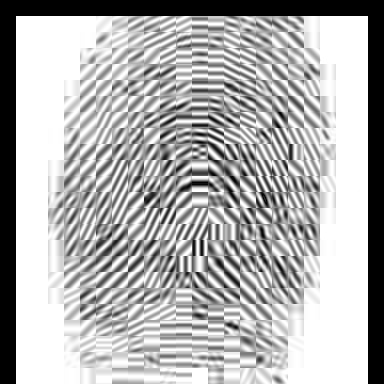
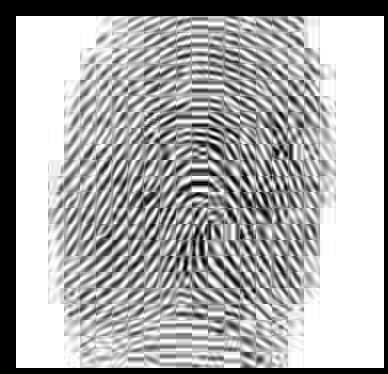
fixing fft unshift

diff --git a/proj10/proj10.py b/proj10/proj10.py
@@ -3,24 +3,29 @@ import numpy as np
 import cv2
 import math
 
+import matplotlib.pyplot as plt
+
 def even_slices(image, M=8):
     for i in range(1, image.shape[0] / M):
         for j in range(1, image.shape[1] / M):
             if i % 2 == 0 and j % 2 == 0:
-                sub_image = [line[(i-1)*M: (i+1)*M] for line in image[(j-1)*M: (j+1)*M]]
+                sub_image = np.array(image)[(i-1)*M: (i+1)*M, (j-1)*M: (j+1)*M]
                 if len(sub_image) > 0: yield (np.asarray(sub_image), i, j)
 
 def max_frequency(image,M=8):
-    max = (0,0,0)
-    for i in range(1, len(image)):
-        for j in range(1, len(image[i])):
-            if abs(image[i][j]) > max[2]:
-                if(i,j) != (M,M): max = (i-M, j-M, abs(image[i][j]))
-    return int(np.linalg.norm([max[0] - M, max[1] - M]))
+    centre=(M,M)
+    max = (0,0,0,0)
+    for i in range(1,len(image)):
+        for j in range(1,len(image[i])):
+            norm = abs(image[i][j])**2
+            if norm > max[2] and (i,j) != centre:
+                dist = math.sqrt((i-centre[0])**2 + (j-centre[1])**2)
+                max = (i-centre[0],j-centre[1],norm,dist)
+    return int(math.ceil(max[3]))
 
 def Npb(image):
     circle = np.ones(image.shape)
-    cv2.circle(circle, image.shape, max_frequency(image), color=0)
+    cv2.circle(circle, (image.shape[0]/2, image.shape[1]/2), max_frequency(image), color=0)
     removed_ring = image*circle
     removed_ring[(image.shape[0] / 2, image.shape[1] / 2)] = 0
     percentile = np.percentile(removed_ring, 5)
@@ -33,34 +38,34 @@ def HMb(region, M=8):
     for i in range(len(region)):
         for j in range(len(region[i])):
             if abs(region[i][j]) >= npb: hmb[i][j] = region[i][j]
-    return np.fft.ifft2(hmb)
+    return hmb
 
 def Hghb(region, M=8):
     result = np.ones((2*M,2*M), dtype=complex)
     for i in range(len(region)):
         for j in range(len(region[i])):
-            d = np.linalg.norm([i - image.shape[0]/2, j - image.shape[1]/2])
-            Hlp = math.exp((-1/2.0)*(d)/((max_frequency(image)+image.shape[0]/16)**2))
-            Hhp = 1 - math.exp((-1/2.0)*(d)/((max_frequency(image))**2))
+            d = np.linalg.norm([i - region.shape[0]/2, j - region.shape[1]/2])
+            Hlp = math.exp((-1/2.0)*(d**2)/((max_frequency(region)+region.shape[0]/16)**2))
+            Hhp = 1 - math.exp((-1/2.0)*(d**2)/((max_frequency(region))**2))
             result[i][j] = Hlp * Hhp
-    return np.fft.ifft2(result)
+    return result * HMb(region)
 
 if __name__ == '__main__':
-    for fingerprint in glob.glob("Fingerprints/*.tif"):
+    #for fingerprint in glob.glob("Fingerprints/*.tif"):
+        fingerprint = "Fingerprints/1_1.tif"
         image = cv2.cvtColor(cv2.imread(fingerprint), cv2.cv.CV_BGR2GRAY)
-        intermediate_image = np.zeros((400,400))
-        final_image = np.zeros((400,400))
+        intermediate_image = np.zeros(image.shape)
+        final_image = np.zeros(image.shape)
         for region, ki, kj in even_slices(image):
             fft = np.fft.fft2(region)
             fft_shift = np.fft.fftshift(fft)
-            hmb = HMb(fft_shift)
-            hghb = Hghb(fft_shift)
+            hmb = np.fft.ifft2(np.fft.ifftshift(HMb(fft_shift)))
+            hghb = np.fft.ifft2(np.fft.ifftshift(Hghb(fft_shift)))
             hmb_intensity = (hmb * 255) / (np.amax(hmb))
-            hghb_intensity = (hghb * 255) / (np.amax(hghb))
-            for j in range(16):
-                for i in range(16):
-                    intermediate_image[(kj) * 8 + j][(ki) * 8 + i] = abs(hmb_intensity[j][i])
-                    final_image[(kj) * 8 + j][(ki) * 8 + i] = abs(hghb_intensity[j][i])
+            for i in range(16):
+                for j in range(16):
+                    intermediate_image[(ki) * 8 + i][(kj) * 8 + j] = abs(hmb_intensity[i][j])
+                    final_image[(ki) * 8 + i][(kj) * 8 + j] = hghb[i][j]
         cv2.imwrite(fingerprint[:-4] + '_intermediate.jpg', intermediate_image)
         cv2.imwrite(fingerprint[:-4] + '_final.jpg', final_image)
         print fingerprint[:-4]
